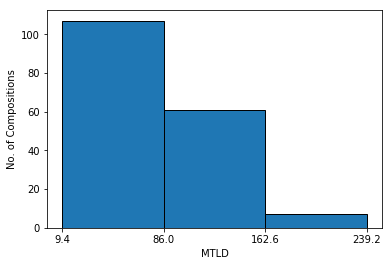
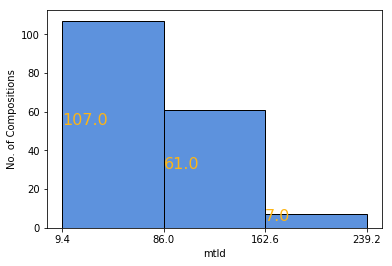
experimenting with data and viz for chapt 3

diff --git a/3_Vocabularies/3_Lexical_and_Literary_Vocabularies.md b/3_Vocabularies/3_Lexical_and_Literary_Vocabularies.md
@@ -124,7 +124,9 @@ We can use various types of DTMs to investigate in more complex ways the relatio
 Because each column represents a word in the lexical corpus, there are many columns that have only zeros (lexical entries that do not occur in [ETCSL][]). In terms of the Venn diagrams discussed in ####, the zeros in our DTM represent the blue area to the right, the ones represent the middle area (overlap between lexical and literary vocabulary); the yellow area (words in [ETCSL][] that do not appear in the Old Babylonian lexical corpus) is not represented in this DTM. 
 ![venn diagram 3](viz/venn_3.png)
 
-The main difference between the Venn diagram and the DTM is that the DTM shows in which compositions the shared words are attested. By computing the sum of a row we get an integer that represents the number of lexically attested lemmas in a particular composition, and this gives us a (numerical) measuring for comparing between compositions. Not surprisingly, longer compositions, such as the [Gudea Cylinders](http://etcsl.orinst.ox.ac.uk/cgi-bin/etcsl.cgi?text=c.2.1.7&display=Crit&charenc=gcirc#) (1363 lines), or the Ninurta narrative [Lugale](http://etcsl.orinst.ox.ac.uk/cgi-bin/etcsl.cgi?text=c.1.6.2&display=Crit&charenc=gcirc#) (726 lines) have more such matches than shorter ones. In fact, the very short ones (some consist of only a few words) are not very useful for the comparison - we will restrict the analysis to texts that are at least 200 words (lemmas/expressions) long. We will use a normalized measure `norm`, that is defined as the number of matches divided by the number of unique lemmas in the composition. In addition to number of matches, text length,  lexical richness (the number of  unique lemmas) and `norm` we will compute the type-token-ration (TTR), which is defined as the number of unique lemmas (types) divided by the length of the text (number of tokens).  TTR is considered a rather poor measurement for lexical diversity because it has a strong negative correlation with text length, but for compositions of approximately even length it may give some idea of the creativity vs. repetitiveness of the text. Finally we include a measure called MTLD or *Measure of Textual Lexical Diversity* which, in short, represents the mean number of words (tokens) that are needed to bring the Type Token Ration of a text down from 1 to a threshold value (usually set to 0.720).[^3] The way MTLD works is as follows. A text is read sequentially, starting at word 1. At each step the next word is added and the TTR value of the sequence is computed. When the TTR gets below the threshold value a new sequence is started. This way a text is cut into sections (called factors), each with approximately the same TTR. The mean number of words per factor is a measure of lexical diversity that is not dependent on text length. It should be noted that the threshold value of 0.720 has been established empirically by analyzing texts in English, with the observation that TTR drops dramatically with the first few words (or as soon as a repeated word is encountered), but then levels out to a plateau where adding more words has little impact. There is reason to assume that (literary) Sumerian may well need a different threshold value because a) literary Sumerian has very few function words (a major source of repetition in English) and b) literary Sumerian tends to repeat phrases or entire paragraphs. We will see that MTLD yields rather extreme results for literary Sumerian - more research is needed to establish the validity of this approach.
+The main difference between the Venn diagram and the DTM is that the DTM shows in which compositions the shared words are attested. By computing the sum of a row we get an integer that represents the number of lexically attested lemmas in a particular composition, and this gives us a (numerical) measure for comparing between compositions. Not surprisingly, longer compositions, such as the [Gudea Cylinders](http://etcsl.orinst.ox.ac.uk/cgi-bin/etcsl.cgi?text=c.2.1.7&display=Crit&charenc=gcirc#) (1363 lines), or the Ninurta narrative [Lugale](http://etcsl.orinst.ox.ac.uk/cgi-bin/etcsl.cgi?text=c.1.6.2&display=Crit&charenc=gcirc#) (726 lines) have more such matches than shorter ones. In fact, the very short ones (some consist of only a few words) are not very useful for the comparison - we will restrict the analysis to texts that are at least 200 words (lemmas/expressions) long. We will use a normalized measure `norm`, that is defined as the number of matches divided by the number of unique lemmas in the composition. In addition to number of matches, text length,  lexical richness (the number of  unique lemmas) and `norm` we will compute the type-token-ration (TTR), which is defined as the number of unique lemmas (types) divided by the length of the text (number of tokens).  TTR is considered a rather poor measurement for lexical diversity because it has a strong negative correlation with text length, but for compositions of approximately even length it may give some idea of the creativity vs. repetitiveness of the text. Finally we include a measure called MTLD or *Measure of Textual Lexical Diversity* which, in short, represents the mean number of words (tokens) that are needed to bring the Type Token Ration of a text down from 1 to a threshold value (usually set to 0.720).[^3] The way MTLD works is as follows. A text is read sequentially, starting at word 1. At each step the next word is added and the TTR value of the sequence is computed. When the TTR gets below the threshold value a new sequence is started. This way a text is cut into sections (called factors), each with approximately the same TTR. The mean number of words per factor is a measure of lexical diversity that is not dependent on text length. 
+
+> It should be noted that the threshold value of 0.720 has been established empirically by analyzing texts in English, with the observation that TTR drops dramatically with the first few words (or as soon as a repeated word is encountered), but then levels out to a plateau where adding more words has little impact. There is reason to assume that (literary) Sumerian may well need a different threshold value because a) literary Sumerian has very few function words (a major source of repetition in English) and b) literary Sumerian tends to repeat phrases or entire paragraphs. We will see that MTLD yields rather extreme results for literary Sumerian - more research is needed to establish the validity of this measure and/or the necessity of a different threshold value.
 
 The table below gives the first ten compositions, sorted by `norm` (descending). Of the 97 unique lemmas that are attested in Inana E no less than 94 are also attested in the Old Babylonian lexical corpus - a `norm` score of 0.969.
 
@@ -143,9 +145,23 @@ The table below gives the first ten compositions, sorted by `norm` (descending).
 
 Note that changes in the [DCCLT][] data may change the numbers and the arrangement of the table.
 
-In the notebook one may manipulate the table to sort it by different columns (ascending or descending) or by displaying a larger or smaller number of rows. Looking at maximum, minimum, median, and mean may give us some idea of what these numbers mean.
+In the notebook one may manipulate the table to sort it by different columns (ascending or descending) or by displaying a larger or smaller number of rows. Looking at maximum, minimum, median, and mean may give us some idea of how the numbers are distributed.
 
-Looking at the `norm` column, it is clear that there is no direct connection between the usage of a composition in scribal education and its rank in this list. Typical school compositions are attested in large numbers of exemplars or were written on tablet types that are known to have been used in scribal schools. Several such groups of texts, labeled the *tetrad*, the *decad* and the *House F Fourteen* have been identified in the past[^4]. Of these compositions only [Eduba C](http://etcsl.orinst.ox.ac.uk/cgi-bin/etcsl.cgi?text=c.5.1.3&display=Crit&charenc=gcirc#)  (which belongs to the *House F Fourteen*) appears in our table at number 9. Collections of proverbs are usually regarded as an intermediate stage between lexical and literary education - but those do not appear in this top ten either.
+```
+count    175.000000
+mean       0.862893
+std        0.065385
+min        0.219839
+25%        0.849031
+50%        0.873874
+75%        0.890367
+max        0.969072
+Name: norm, dtype: float64
+```
+
+The 25%, 50%, and 75% point are all very close to each other - the great majority of values are on the (very) high side of the scale, with only a few outliers at the bottom. A histogram of the values visualizes that: 
+
+![Histogram of norm](viz/hist_norm.png)
 
 Looking at the bottom of the table we find that the compositions ranking lowest on `norm` are the following
 
@@ -162,11 +178,15 @@ Looking at the bottom of the table we find that the compositions ranking lowest 
 | [c.2.2.3](http://etcsl.orinst.ox.ac.uk/cgi-bin/etcsl.cgi?text=c.2.2.3&display=Crit&charenc=gcirc#) | The lament for Sumer and Urim                                | 2701   | 60.328 | 0.27  | 729     | 573       | 0.786 |
 | [c.2.2.2](http://etcsl.orinst.ox.ac.uk/cgi-bin/etcsl.cgi?text=c.2.2.2&display=Crit&charenc=gcirc#) | The lament for Urim                                          | 2305   | 23.366 | 0.227 | 524     | 416       | 0.794 |
 
-In this list *The Sumerian King List* is clearly an outlier with only 82 matches on 373 unique lemmas and a `norm`score of 0.22. *The Sumerian Kinglist* is a rather repetitive text that enumerates the names of kings and names of cities, recording regnal years and, occasionally, a brief anecdote about those kings. Proper nouns, including royal names and city names, are underrepresented in the lexical corpus, explaining the large number of lemmas not attested in [DCCLT][]. The next two compositions have a `norm`score that is significantly higher, but still low comparatively speaking. *The Rulers of Lagaš* and the *Letter from Puzur-Šulgi* both have relatively large number of of proper nouns.
+*The Sumerian King List* is the outlier with only 82 matches on 373 unique lemmas and a `norm`score of 0.22. *The Sumerian Kinglist* is a rather repetitive text that enumerates the names of kings and names of cities, recording regnal years with, occasionally, a brief anecdote about one of those kings. Proper nouns, including royal names and city names, are underrepresented in the lexical corpus, explaining the large number of lemmas in *The Sumerian King List* not attested in [DCCLT][]. The next two compositions have a `norm`score that is significantly higher (note that the second bin in the histogram is empty), but still low comparatively speaking. *The Rulers of Lagaš* and the *Letter from Puzur-Šulgi* both have relatively large number of of proper nouns.
 
-After these three lowest scoring texts, the rest of the [ETCSL][] corpus scores at least 0.75, with a median value of 0.874 and a mean of 0.863. That means that on average close to ninety percent of the words and expressions in each composition. 
+After these three lowest scoring texts, the rest of the [ETCSL][] corpus scores at least 0.75, with a median value of 0.874 and a mean of 0.863. In the great majority of cases close to ninety percent of the words and expressions in a literary composition are represented in the lexical corpus. Some of the non-overlap between the two corpora, moreover, may be explained by Proper Nouns.
 
-This yields a picture that is very different from the Venn diagrams in section ####, where we looked at the intersection of the full vocabulary of [ETCSL][] against the full vocabulary of Old Babylonian lexical texts in [DCCLT][]. The Venn diagram showed that only 57% of the [ETCSL][] vocabulary is found in [DCCLT][], but now we realize that on a composition-by-composition basis there is a very close relationship between the [ETCSL][] corpus and the contemporary lexical corpus. A good deal of the divergence may be due to proper nouns. Moreover, the `norm` scale does not clearly separate between literary compositions known to be used at school, and compositions that may come from a different (perhaps liturgical) background. 
+This yields a picture that is very different from the Venn diagrams in section ####, where we looked at the intersection of the full vocabulary of [ETCSL][] against the full vocabulary of Old Babylonian lexical texts in [DCCLT][]. The Venn diagram showed that only 57% of the [ETCSL][] vocabulary is found in [DCCLT][], but now we realize that on a composition-by-composition basis the relationship between literary compositions and the contemporary lexical corpus is much tighter. A good deal of the divergence may be due to proper nouns, or Emesal forms (which are very rare in the lexical corpus). 
+
+
+
+Moreover, the `norm` scale does not clearly separate between literary compositions known to be used at school, and compositions that may come from a different (perhaps liturgical) background. 
 
 Ordering by text *length* we see that the Gudea cylinders are by far the longest composition in this group at 4,387 lemmas. The next composition is Ninurta's exploits (or Lugal-e) at 3,160, followed by The Lament for Sumer and Ur (2,701). From there on compositions gradually get shorter, but the first two stand out. 
 
@@ -227,7 +247,7 @@ An inspection of the lowest scoring compositions will show that these tend to re
 | šeš-ŋu₁₀ me-a di-di me-e mu-da-ul₄-le-en      | My brother, wherever you go I will hasten with you.          |
 | {d}du₅-mu-zid me-a di-di me-e mu-da-ul₄-le-en | Dumuzid, wherever you go I will hasten with you.             |
 
-This is a frequent device in Sumerian poetry. A histogram of the distribution of MTLD values shows that the lowest values (between 9.4 and 86.0) are the most frequent (n = 107), followed by values up to 162.6 (n = 61), with only 7 outliers with higher MLTD values.
+This is a frequent device in Sumerian poetry. A histogram of the distribution of MTLD values shows that the lowest values (between 9.4 and 86.0) are the most frequent, followed by values up to 162.6, with only 7 outliers with higher MLTD values.
 
 ![histogram MTLD](viz/mtld_hist.png)
 
